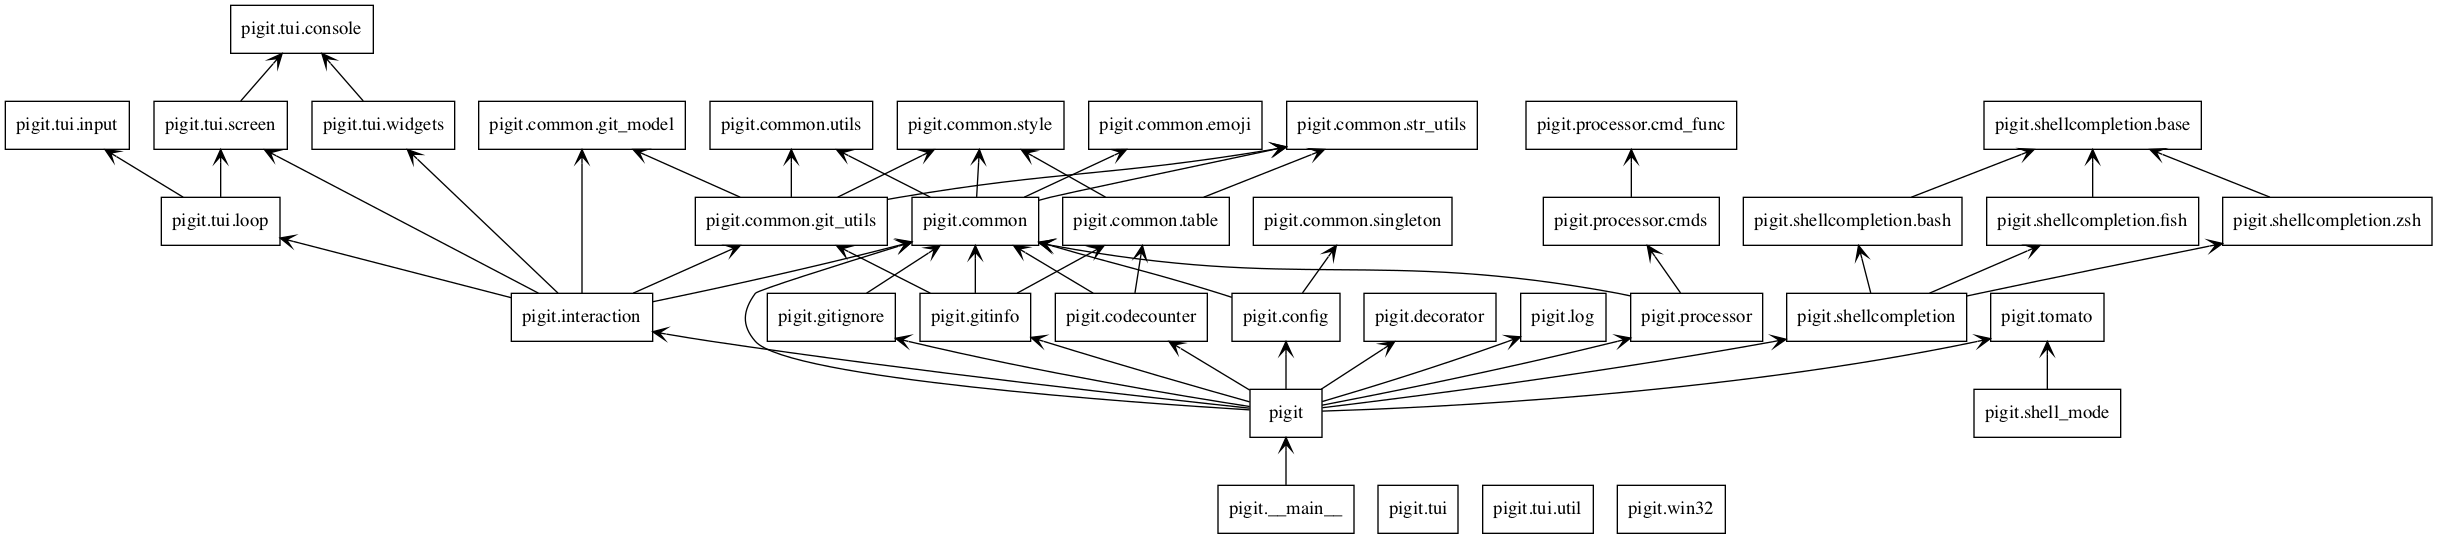
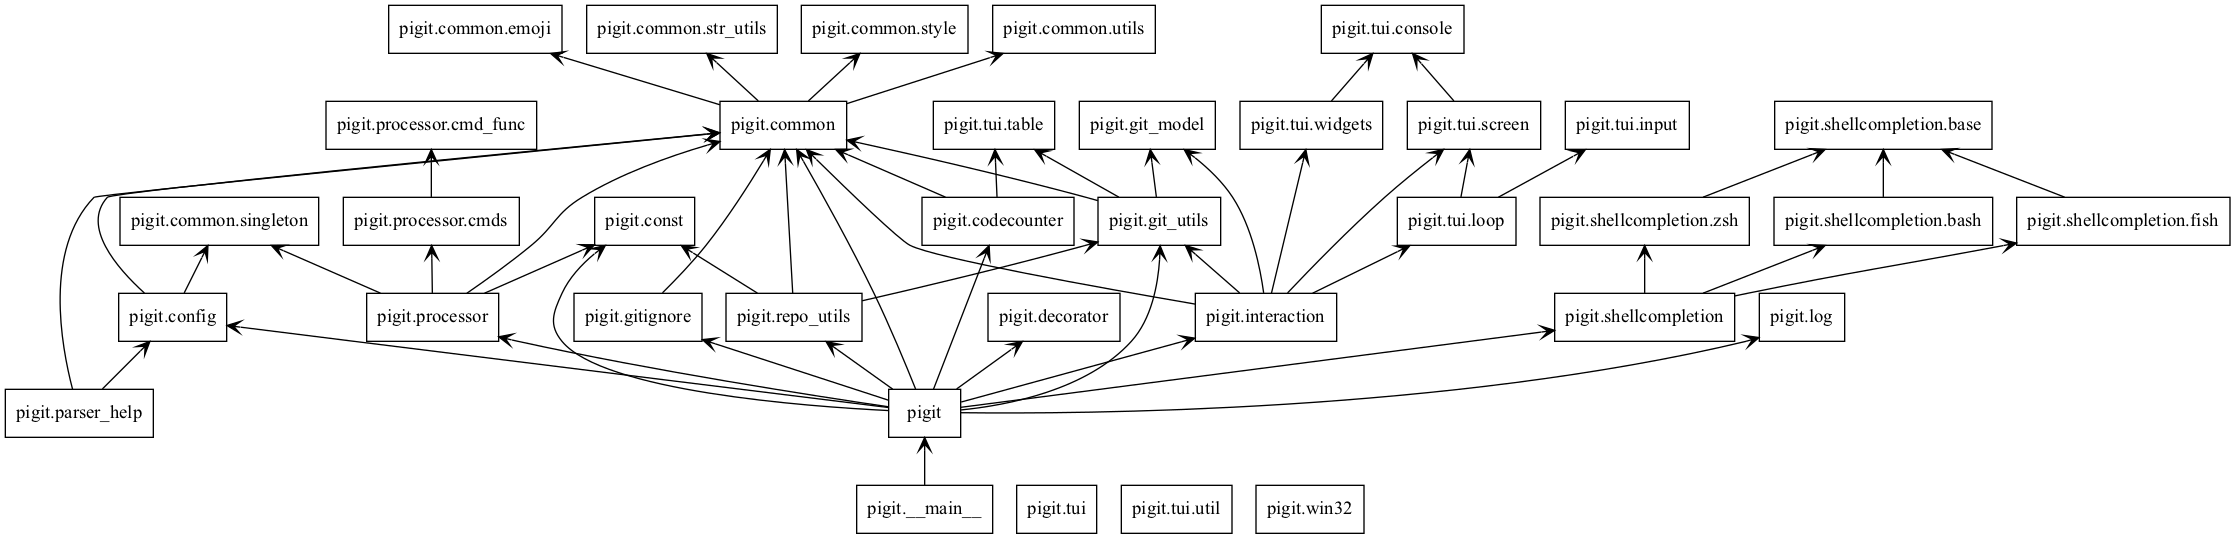
chore: remove useless file `tomato.py`

diff --git a/pigit/__init__.py b/pigit/__init__.py
@@ -120,7 +120,6 @@ def introduce() -> None:
 
 
 def shell_mode(git_processor: CmdProcessor):
-    import pigit.tomato
 
     print(
         "Welcome come PIGIT shell.\n"
@@ -144,10 +143,6 @@ def shell_mode(git_processor: CmdProcessor):
 
         elif command in git_processor.cmds.keys():
             git_processor.process_command(command, args_str.split())
-
-        elif command == "tomato":
-            # Tomato clock.
-            pigit.tomato.main(input_argv_str.split())
 
         elif command in ["sh", "shell"]:
             if args_str:
@@ -178,9 +173,6 @@ def shell_mode(git_processor: CmdProcessor):
 
             elif "all" in args_str:
                 git_processor.command_help()
-
-            elif "tomato" in args_str:
-                pigit.tomato.help("tomato")
 
             elif "sh" in args_str or "shell" in args_str:
                 print(
